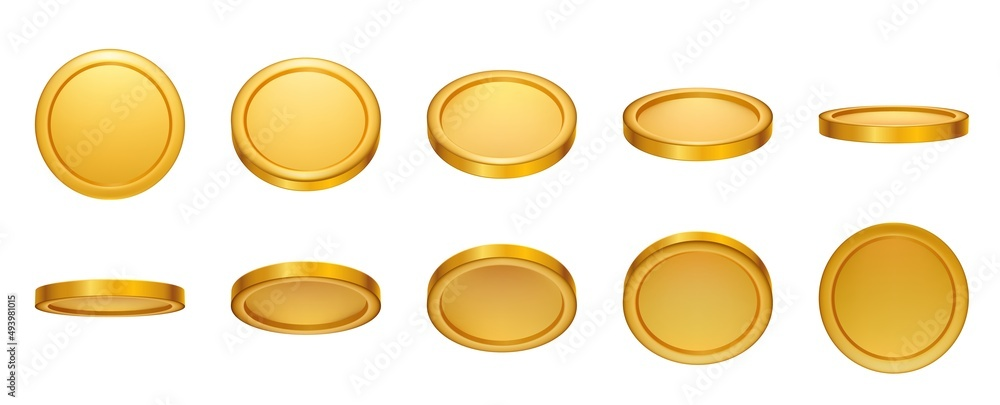
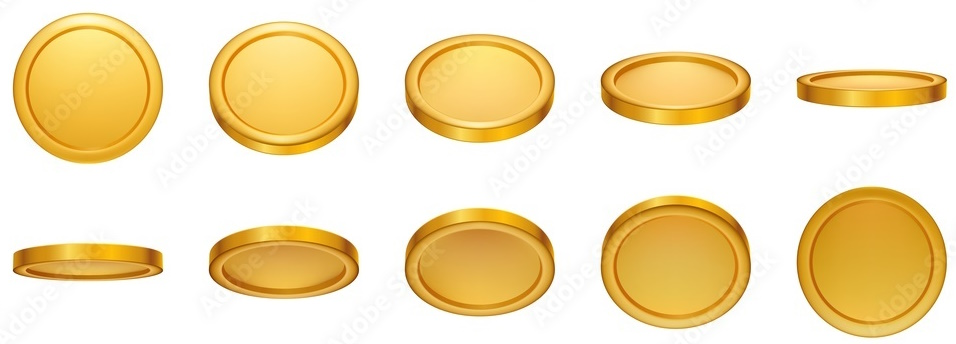
coin animation work

diff --git a/typescript/game.ts b/typescript/game.ts
@@ -42,19 +42,19 @@ class Player {
     this.y += this.velocityY;
     this.velocityY += 0.5;
 
-// Apply rotation only when the player is jumping or falling
- // Apply rotation only when the player is jumping
- if (this.isJumping) {
-  // Increase the rotation angle while jumping
-  this.rotation += 25; // Adjust the value as needed for the rotation speed
-  if (this.rotation >= 360) {
-    // Wrap the rotation angle around 360 degrees
-    this.rotation = 0;
-  }
-} else {
-  // If the player is not jumping, set the rotation angle to 0
-  this.rotation = 0;
-}
+    // Apply rotation only when the player is jumping or falling
+    // Apply rotation only when the player is jumping
+    if (this.isJumping) {
+      // Increase the rotation angle while jumping
+      this.rotation += 25; // Adjust the value as needed for the rotation speed
+      if (this.rotation >= 360) {
+        // Wrap the rotation angle around 360 degrees
+        this.rotation = 0;
+      }
+    } else {
+      // If the player is not jumping, set the rotation angle to 0
+      this.rotation = 0;
+    }
 
   }
 
@@ -73,7 +73,7 @@ class Floor {
   y: number;
   image: HTMLImageElement; // Add an image property to store the floor image
 
-  constructor(x: number, y: number, width: number, id: number , imageUrl: string) {
+  constructor(x: number, y: number, width: number, id: number, imageUrl: string) {
     this.x = x;
     this.y = y;
     this.width = width;
@@ -128,6 +128,7 @@ class Coin {
   width: number;
   height: number;
   image: any;
+  frameX: number;
 
   constructor(x: number, y: number, width: number, idC: number) {
     this.x = Math.floor(Math.random() * 500);
@@ -136,6 +137,7 @@ class Coin {
     this.height = 30;
     this.idC = idC;   // Assign the ID to the coin 
     this.image = document.querySelector('#coin');
+    this.frameX = 0;
   }
 
   drawCoin(ctx: CanvasRenderingContext2D) {
@@ -145,28 +147,23 @@ class Coin {
     // ctx.fill()
     // ctx.strokeStyle = "gold";
     // ctx.stroke();
-    ctx.drawImage(this.image, 0, 0, 220, 220, this.x, this.y, this.width, this.height)
+    //const coinWidth = 192;
+    //const coinHeight = 172;
+    //ctx.drawImage(this.image, 0, 0, coinWidth, coinHeight, this.x, this.y, this.width, this.height)
     ctx.strokeRect(this.x, this.y, this.width, this.height)
+    //let frameX: number = 0; 
+    this.animation()
   }
 
   //https://www.youtube.com/watch?v=CY0HE277IBM&ab_channel=Frankslaboratory
   animation() {
-
-  }
-}
-
-
-//-------------------------------------------------------
-function updateScore() {
-  try {
-    if ((this.player.x === bomb.x) && (this.player.y === bomb.y)) {
-      this.score -= 1;
-    }
-
-    if ((this.player.x === coin.x) && (this.player.y === coin.y)) {
-      this.score += 1;
-    }
-  } catch (error) {
-    console.error(error)
+    const coinWidth = 170;
+    const coinHeight = 170;
+    ctx.clearRect(0, 0, this.width, this.height)
+    let frameX: number ;
+    ctx.drawImage(this.image, this.frameX * coinWidth, 0 * coinHeight, coinWidth, coinHeight, this.x, this.y, this.width, this.height)
+    if (this.frameX < 6) this.frameX++
+    else this.frameX = 0
+    requestAnimationFrame(this.animation)
   }
 }

diff --git a/typescript/dist/game.js b/typescript/dist/game.js
@@ -99,6 +99,7 @@ var Coin = /** @class */ (function () {
         this.height = 30;
         this.idC = idC; // Assign the ID to the coin 
         this.image = document.querySelector('#coin');
+        this.frameX = 0;
     }
     Coin.prototype.drawCoin = function (ctx) {
         // ctx.beginPath();
@@ -107,25 +108,25 @@ var Coin = /** @class */ (function () {
         // ctx.fill()
         // ctx.strokeStyle = "gold";
         // ctx.stroke();
-        ctx.drawImage(this.image, 0, 0, 220, 220, this.x, this.y, this.width, this.height);
+        //const coinWidth = 192;
+        //const coinHeight = 172;
+        //ctx.drawImage(this.image, 0, 0, coinWidth, coinHeight, this.x, this.y, this.width, this.height)
         ctx.strokeRect(this.x, this.y, this.width, this.height);
+        //let frameX: number = 0; 
+        this.animation();
     };
     //https://www.youtube.com/watch?v=CY0HE277IBM&ab_channel=Frankslaboratory
     Coin.prototype.animation = function () {
+        var coinWidth = 170;
+        var coinHeight = 170;
+        ctx.clearRect(0, 0, this.width, this.height);
+        var frameX;
+        ctx.drawImage(this.image, this.frameX * coinWidth, 0 * coinHeight, coinWidth, coinHeight, this.x, this.y, this.width, this.height);
+        if (this.frameX < 6)
+            this.frameX++;
+        else
+            this.frameX = 0;
+        requestAnimationFrame(this.animation);
     };
     return Coin;
 }());
-//-------------------------------------------------------
-function updateScore() {
-    try {
-        if ((this.player.x === bomb.x) && (this.player.y === bomb.y)) {
-            this.score -= 1;
-        }
-        if ((this.player.x === coin.x) && (this.player.y === coin.y)) {
-            this.score += 1;
-        }
-    }
-    catch (error) {
-        console.error(error);
-    }
-}

diff --git a/typescript/dist/canvas.js b/typescript/dist/canvas.js
@@ -230,10 +230,11 @@ generateFloor();
 function draw() {
     ctx.clearRect(0, 0, canvas.width, canvas.height);
     ctx.translate(0, canvasOffsetY); // creating the effect of the player and other objects moving up in the game world
-    // Draw player & bomb & coins
+    // Draw player & floors & bomb & coins
     player.draw(ctx);
     bomb.drawBomb(ctx);
     coin.drawCoin(ctx);
+    //coin.animation()
     for (var _i = 0, floors_2 = floors; _i < floors_2.length; _i++) {
         var floor = floors_2[_i];
         floor.draw(ctx);
@@ -288,14 +289,14 @@ function checkCollisionBomb() {
     }
     else {
         // Check collision with other floors
-        for (var _i = 0, bombs_2 = bombs; _i < bombs_2.length; _i++) {
-            var bomb_2 = bombs_2[_i];
-            if (player.x < bomb_2.x + bomb_2.width &&
-                player.x + player.width > bomb_2.x &&
-                player.y + player.height > bomb_2.y) {
+        for (var _i = 0, bombs_1 = bombs; _i < bombs_1.length; _i++) {
+            var bomb_1 = bombs_1[_i];
+            if (player.x < bomb_1.x + bomb_1.width &&
+                player.x + player.width > bomb_1.x &&
+                player.y + player.height > bomb_1.y) {
                 bombCollision = true;
                 console.log("collosion bomb");
-                targetBombId = bomb_2.idB; // Save the ID of the target floor
+                targetBombId = bomb_1.idB; // Save the ID of the target floor
                 break;
             }
         }

diff --git a/typescript/canvas.ts b/typescript/canvas.ts
@@ -3,18 +3,8 @@ const canvas = document.getElementById("canvas") as HTMLCanvasElement;
 const ctx = canvas.getContext("2d")!;
 
 const player = new Player();
-const bomb = new Bomb(
-  Math.floor(Math.random() * 500),
-  Math.floor(Math.random() * 500),
-  30,
-  0
-);
-const coin = new Coin(
-  Math.floor(Math.random() * 500),
-  Math.floor(Math.random() * 500),
-  30,
-  0
-);
+const bomb = new Bomb(Math.floor(Math.random()*500), Math.floor(Math.random()*500),30,0);
+const coin = new Coin(Math.floor(Math.random()*500), Math.floor(Math.random()*500),30,0);
 
 const users: User[] = [];
 let bombs: Bomb[] = [];
@@ -87,7 +77,7 @@ function generateBomb() {
 }
 
 function removeBombs() {
-  
+
   bombs = bombs.filter((bomb) => bomb.y + bomb.height > -canvasOffsetY); // Remove bombs  the canvas
 }
 
@@ -284,7 +274,7 @@ function draw() {
   player.draw(ctx);
   bomb.drawBomb(ctx);
   coin.drawCoin(ctx);
-
+  //coin.animation()
   for (const floor of floors) {
     floor.draw(ctx);
   }

diff --git a/main/canvas.html b/main/canvas.html
@@ -17,7 +17,7 @@
   <div id="popup"></div>
   <canvas id="canvas" width="800" height="800"></canvas>
   <img id="bomb" src="../scss/sim2.png">
-  <img id="coin" src="../scss/coin.jpg">
+  <img id="coin" src="../scss/coin2.png">
   
 
 </body>
